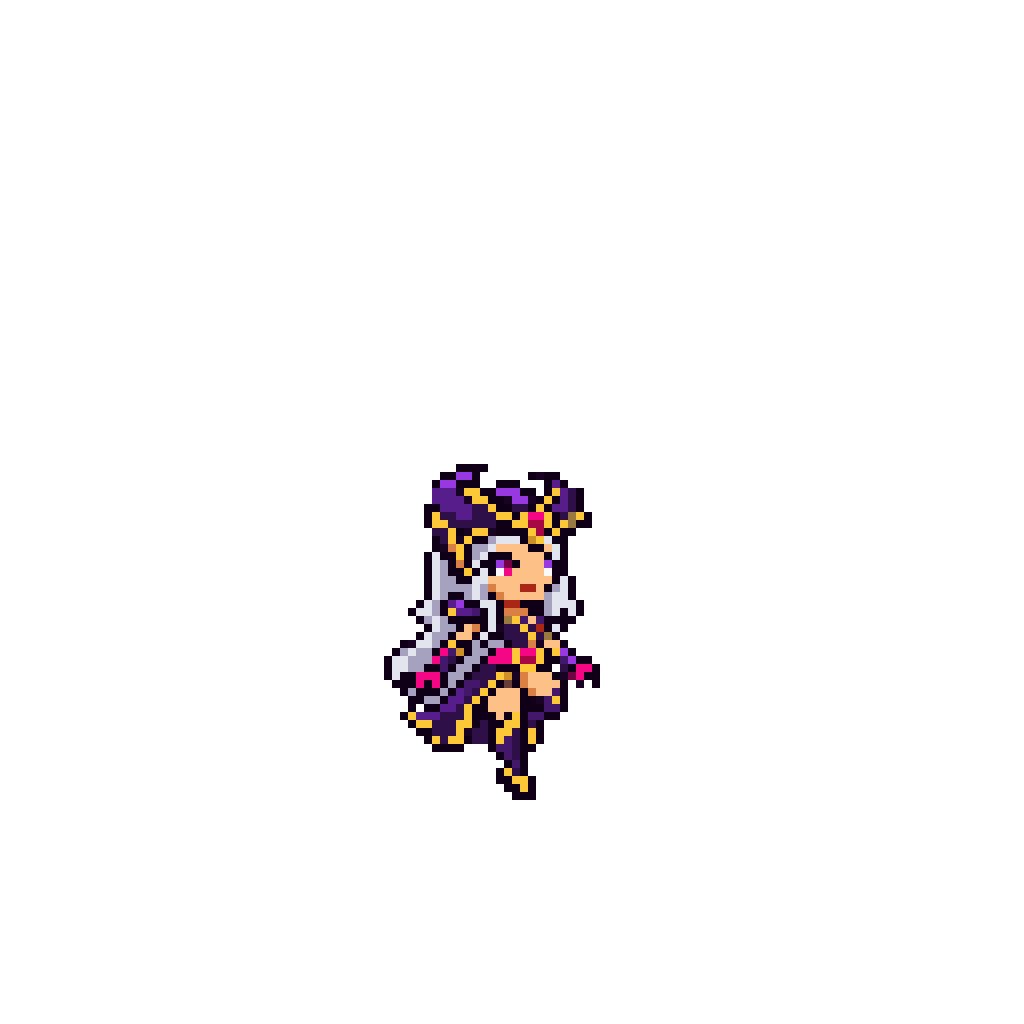
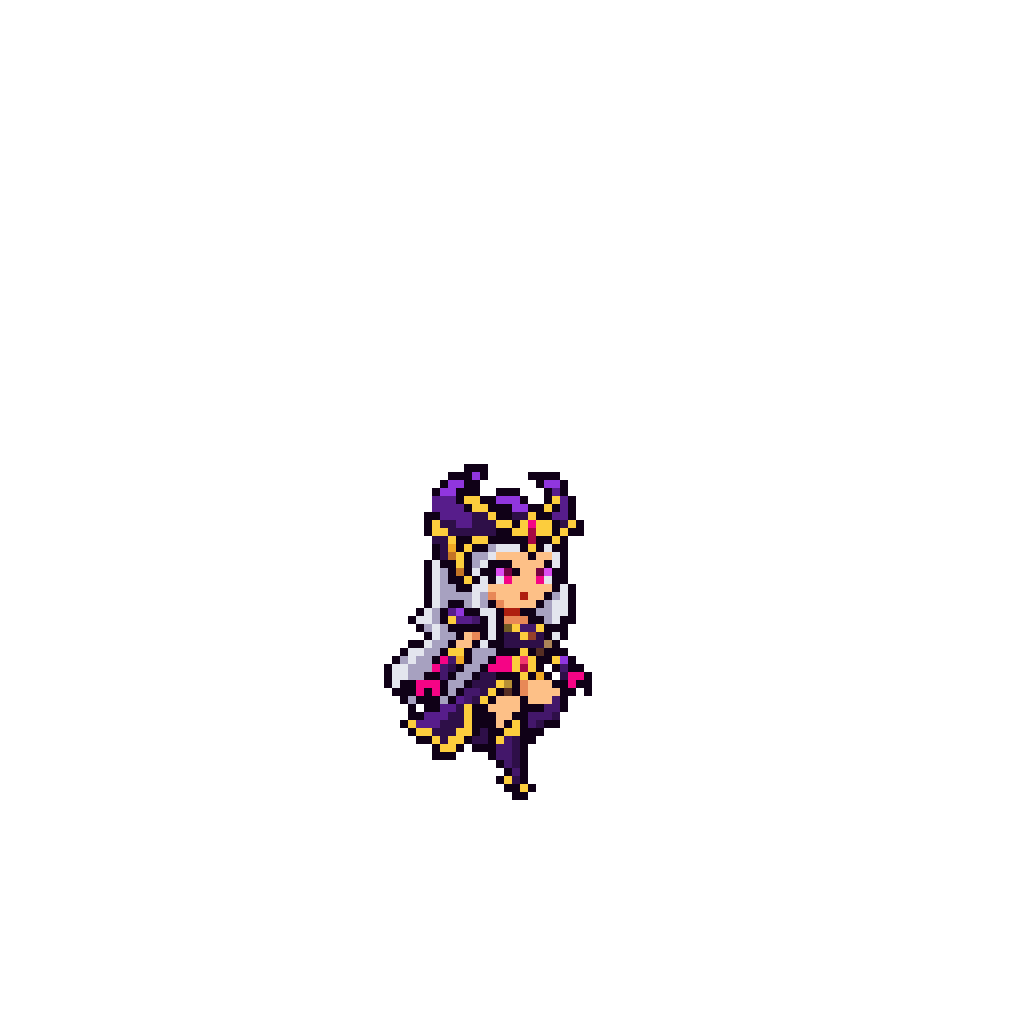
Syndra: design redone league_tryndamere's way (draft 3, own 24 colours, least-loss row/column cuts, face kept, outline closed; 26 x 42)

Changed region(s): [[0.375, 0.4375, 0.5938, 0.7812]]

diff --git a/tools/art/design_syndra.py b/tools/art/design_syndra.py
@@ -1,20 +1,19 @@
 #!/usr/bin/env python3
 """Syndra's game-size design (step 1) from Codex's generator drafts (assets/source/syndra/codex_model/raw).
 
-    python tools/art/design_syndra.py --base [1|2]        # print a draft's read-back as letters (row/column numbers)
-    python tools/art/design_syndra.py --cuts OUT_DIR      # the size options for the user (PNGs + letter files)
-    python tools/art/design_syndra.py --final             # the approved letter grid (FINAL) -> assets/source/native
+    python tools/art/design_syndra.py --final [--check]   # PICK -> assets/source/native/syndra_native.png
+    python tools/art/design_syndra.py --tryn 3 42 --tryn-out x.png   # one option, league_tryndamere's way
+    python tools/art/design_syndra.py --base 3             # a draft's read-back as letters (row/column numbers)
+    python tools/art/design_syndra.py --cuts OUT_DIR       # the first round of options (even cuts)
 
-How it came about (2026-10-10): the user picked Codex's picture A (the relic cannon resting on her shoulder). Codex's
-step 1 drew three generator drafts of 10 px squares (syndra-generation-01/02/03.png): 01 the picture's detail at 97 rows,
-02 redrawn to the pack's target silhouette at 67 rows (claws to soles), 03 a further low-detail redraw at ~46 rows that
-Codex sampled into its syndra_design.png - the face a blob, the claws and the body a jumble of gold specks. So here, as
-for league_draven, from draft 02 (01 is too big to cut):
-  1. read back on its own grid (the skill's regrid.py, --size 10);
-  2. every square to the nearest of PAL (CIELAB) - Codex's own 27-colour palette (codex_model/validation.json);
-  3. whole rows and columns deleted EVENLY per part to the size the user picks (never two neighbours, never the
-     face's rows and columns, the soles kept);
-  4. strips.complete_outline; 5. on the 128 x 128 canvas: the soles on row 99, the middle of the feet on column 64.
+How it came about (2026-10-11): the user picked Codex's picture A (League's idle1: floating, arms spread down, one knee
+bent). Codex's step 1 drew three generator drafts (raw/generation-1/2/3.png): 1 the picture's detail (109 x 83 on its
+10 px grid), 2 a chunkier redraw (67 x 44, 14 px), 3 a chibi redraw (53 x 33 on its 17 px grid); its own A / B were
+draft 3 cut by whole rows only (30 wide, squat). First round: draft 3 cut evenly per part (league_senna's way, CUTS) -
+the user picked 「3_42」, then 「眼睛上脏的黑色素清理掉 全身也是」 / 「还有缺失色素的地方补一补 精修一下」 and
+「之前蛮王什么的弄的不是挺好的吗 就按照那种方式」: so league_tryndamere's way (tryn()): draft 3 read on its own grid, its
+own 24 colours, whole rows and columns dropped where least is lost, the face kept, only the outline closed - 「第三稿→42」
+(26 x 42 on the 128 canvas: the lowest toe on row 99, column 64).
 """
 import argparse
 import os
@@ -33,7 +32,6 @@ import design_rengar as R  # noqa: E402
 
 RAW = {v: os.path.join(ROOT, "assets", "source", "syndra", "codex_model", "raw", f"generation-{v}.png")
        for v in "123"}
-FINAL = os.path.join(ROOT, "assets", "source", "syndra", "design", "syndra_design.txt")
 OUT = os.path.join(ROOT, "assets", "source", "native", "syndra_native.png")
 SQUARE = {"1": 10.0, "2": 14.0, "3": 17.0}       # the drafts' squares (regrid's own measure)
 
@@ -157,24 +155,46 @@ def make(name):
     return close_outline(to_rgba(rows)), dr, dc
 
 
-PICK = "3_42"          # the user's pick (「3_42」, 2026-10-11)
-POLISH = []
+PICK = ("3", 42)       # the user's pick: draft 3 at 42 rows, league_tryndamere's way (「第三稿→42」, 2026-10-11); the
+                       # even cuts (CUTS, 「3_42」 first) were dropped for their dirty black squares round the eyes
 
 
-def rebuild():
-    """The picked cut on the canvas with POLISH applied (what FINAL holds)."""
-    fig, _, _ = make(PICK)
-    can = on_canvas(fig)
-    ys, xs = np.nonzero(can[..., 3] > 0)
-    x0 = xs.min()
-    for y, c, text in POLISH:
-        for i, ch in enumerate(text):
-            if ch == ".":
-                can[y, x0 + c + i] = 0
-            elif ch != " ":
-                can[y, x0 + c + i, :3] = RGB[ch]
-                can[y, x0 + c + i, 3] = 255
-    return can
+# league_tryndamere's way (the user, 2026-10-11: 「之前蛮王什么的弄的不是挺好的吗 就按照那种方式」, design_tryndamere.py):
+# a draft read back on its own grid, every square one of K colours of the read-back's own (design_varus.kmeans), whole
+# rows then columns deleted by design_riven.keep_axis (in each group the line most like a neighbour goes, three offsets,
+# the least loss kept), the width in proportion, never the face's rows / columns nor row 0 (the horn tips), then only
+# strips.complete_outline (the face kept). Draft 1: 109 x 83 on its 10 px grid (the picture's detail); draft 2: 67 x 44.
+TRYN = {"1": (range(24, 33), range(43, 56)), "2": (range(21, 30), range(12, 24)), "3": (range(15, 23), range(11, 21))}
+K = 24
+
+
+def tryn(v, height):
+    import design_riven as DR
+    import design_varus as dv
+    raw, _, _ = regrid(np.asarray(Image.open(R.lp(RAW[v])).convert("RGBA")), SQUARE[v])
+    ys, xs = np.nonzero(raw[..., 3] >= 128)
+    raw = raw[ys.min():ys.max() + 1, xs.min():xs.max() + 1].copy()
+    raw[..., 3] = np.where(raw[..., 3] >= 128, 255, 0)
+    idx, pal = dv.kmeans(raw, K)
+    H, W = idx.shape
+    fr_, fc_ = TRYN[v]
+    face = range(fr_.start - 1, fr_.stop - 1)
+    rows = [0] + [r + 1 for r in DR.keep_axis([idx[y] for y in range(1, H)], height - 1, face)]
+    sub = idx[rows]
+    cols = DR.keep_axis([sub[:, x] for x in range(W)], round(W * height / H), fc_)
+    small = idx[np.ix_(rows, cols)]
+    fig = np.zeros(small.shape + (4,), np.uint8)
+    m = small >= 0
+    fig[m, :3] = pal[small[m]]
+    fig[m, 3] = 255
+    keep = np.zeros(m.shape, bool)
+    fr = [rows.index(r) for r in fr_]
+    fc = [cols.index(c) for c in fc_]
+    keep[fr[0]:fr[-1] + 1, fc[0]:fc[-1] + 1] = True
+    ink = tuple(int(c) for c in pal[int(np.argmin((pal * [0.299, 0.587, 0.114]).sum(1)))])
+    can = np.pad(fig, ((1, 1), (1, 1), (0, 0)))
+    can, added, _ = strips.complete_outline(can, color=ink, feet=fig.shape[0], keep=np.pad(keep, 1))
+    return on_canvas(R.crop(can)), rows, cols, added
 
 
 def options(out_dir):
@@ -189,58 +209,32 @@ def options(out_dir):
     return figs
 
 
-def write_letters(can, path):
-    ys, xs = np.nonzero(can[..., 3] > 0)
-    x0 = xs.min()
-    inv = {v: k for k, v in RGB.items()}
-    os.makedirs(os.path.dirname(R.lp(path)), exist_ok=True)
-    with open(R.lp(path), "w", encoding="utf-8", newline="\n") as f:
-        f.write(f"# x0 {x0}\n")
-        for y in range(ys.min(), ys.max() + 1):
-            f.write(f"{y:3d}" + "".join(inv[tuple(int(v) for v in can[y, x, :3])] if can[y, x, 3] else " "
-                                        for x in range(x0, xs.max() + 1)).rstrip() + "\n")
-
-
-def read_letters(path):
-    can = np.zeros((128, 128, 4), np.uint8)
-    x0 = 0
-    for line in open(R.lp(path), encoding="utf-8"):
-        line = line.rstrip("\r\n")
-        if line.startswith("# x0"):
-            x0 = int(line.split()[2])
-            continue
-        if len(line) < 4 or not line[:3].strip().isdigit():
-            continue
-        y = int(line[:3])
-        for i, ch in enumerate(line[3:]):
-            if ch not in " .":
-                can[y, x0 + i, :3] = RGB[ch]
-                can[y, x0 + i, 3] = 255
-    return can
-
-
 def main():
     ap = argparse.ArgumentParser()
     ap.add_argument("--base", nargs="?", const="2")
     ap.add_argument("--cuts", metavar="OUT_DIR")
-    ap.add_argument("--final", action="store_true", help="write FINAL to OUT")
-    ap.add_argument("--rebuild", action="store_true", help="PICK + POLISH, compared with FINAL")
-    ap.add_argument("--write-letters", action="store_true", help="with --rebuild: (re)write FINAL")
+    ap.add_argument("--final", action="store_true", help="write PICK to OUT (--check: compare instead)")
+    ap.add_argument("--check", action="store_true")
+    ap.add_argument("--tryn", nargs=2, metavar=("DRAFT", "ROWS"), help="league_tryndamere's way: write a PNG option")
+    ap.add_argument("--tryn-out")
     a = ap.parse_args()
-    if a.rebuild:
-        can = rebuild()
-        if a.write_letters:
-            write_letters(can, FINAL)
-            print("wrote", FINAL)
-        else:
-            old = read_letters(FINAL)
-            print("same as FINAL" if (old == can).all() else f"differs from FINAL in {int((old != can).any(-1).sum())} squares")
     if a.final:
-        can = read_letters(FINAL)
-        Image.fromarray(can).resize((1024, 1024), Image.NEAREST).save(R.lp(OUT))
-        print("wrote", OUT, "box", Image.fromarray(can).getbbox())
+        can, rows, cols, added = tryn(*PICK)
+        bb = Image.fromarray(can).getbbox()
+        info = f"{bb[2] - bb[0]} x {bb[3] - bb[1]} box {bb}, outline +{added}, rows kept {rows}, cols kept {cols}"
+        if a.check:
+            old = np.asarray(Image.open(R.lp(OUT)).convert("RGBA"))[4::8, 4::8]
+            print("identical" if np.array_equal(old, can) else "DIFFERENT", info)
+        else:
+            Image.fromarray(can).resize((1024, 1024), Image.NEAREST).save(R.lp(OUT))
+            print("wrote", OUT, info)
     if a.base:
         show(base(a.base))
+    if a.tryn:
+        can, rows, cols, added = tryn(a.tryn[0], int(a.tryn[1]))
+        Image.fromarray(can).save(R.lp(a.tryn_out))
+        bb = Image.fromarray(can).getbbox()
+        print(f"draft {a.tryn[0]}: {bb[2] - bb[0]} x {bb[3] - bb[1]}, outline +{added}, rows kept {rows}, cols kept {cols}")
     if a.cuts:
         os.makedirs(a.cuts, exist_ok=True)
         options(a.cuts)
